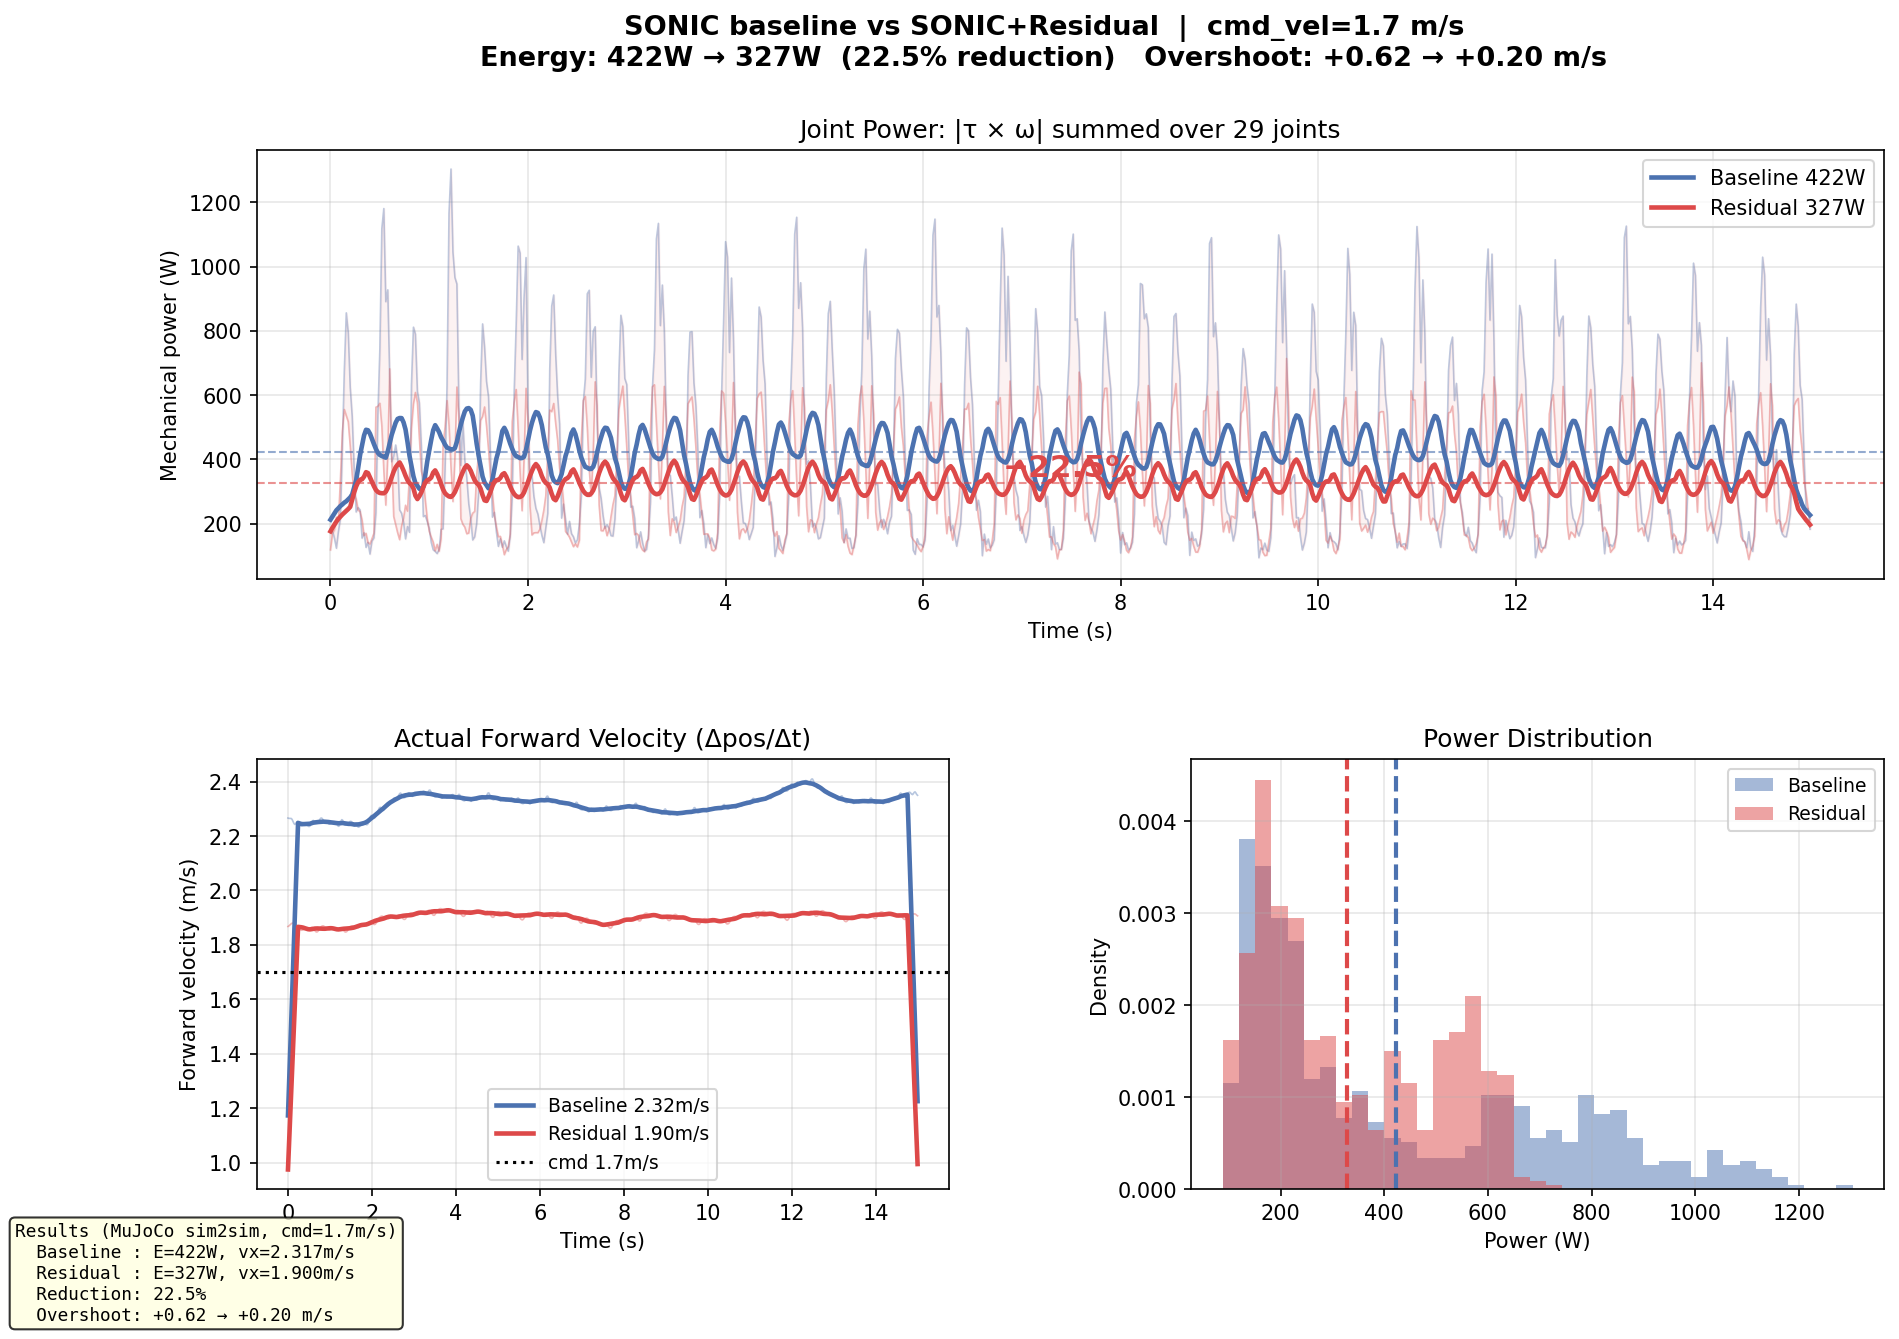
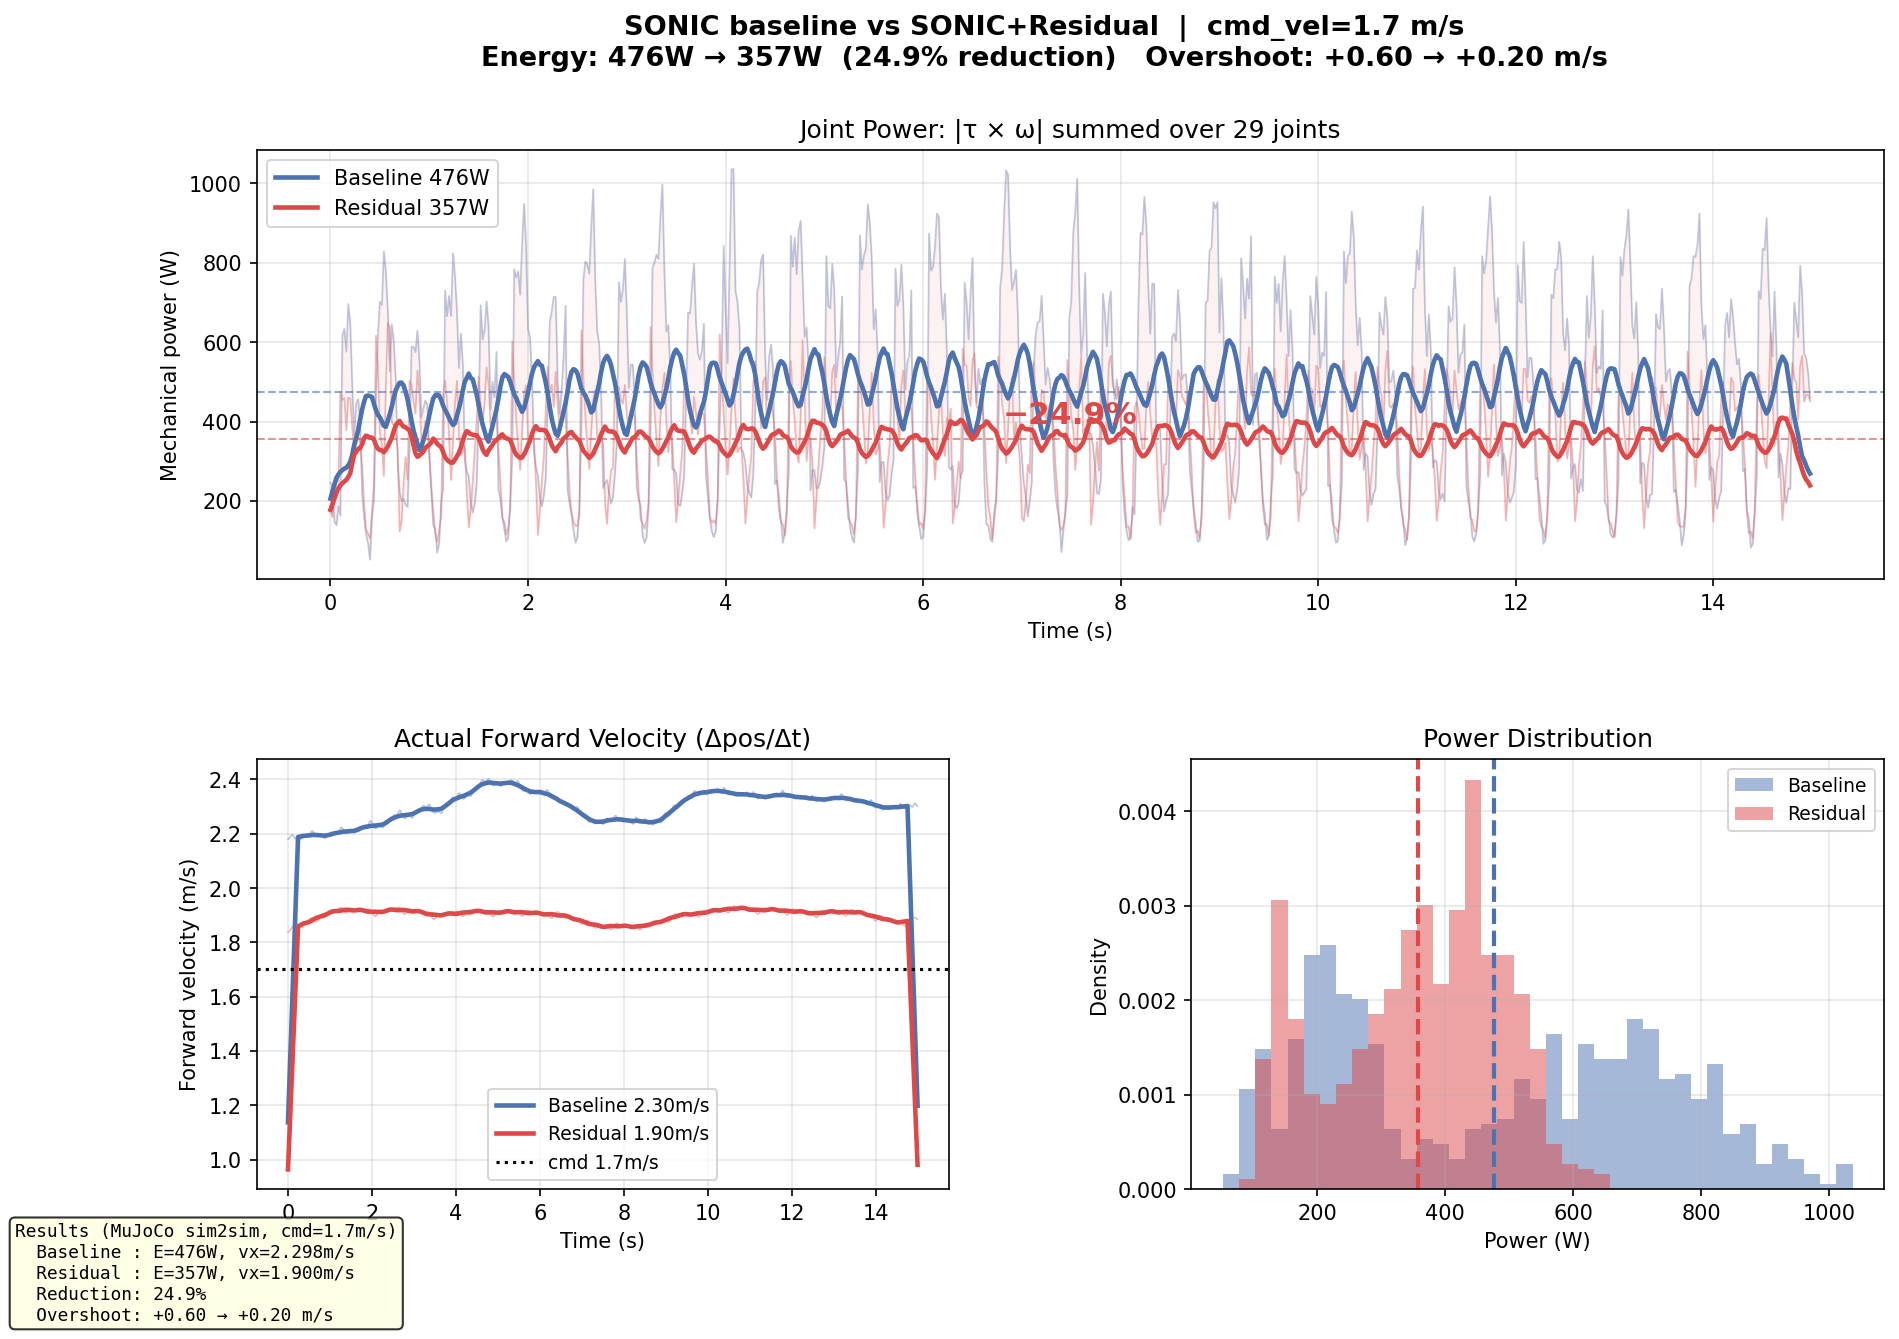
fix(sonic): correct energy_compare qd ordering, update v9 headline numbers
mujoco_energy_compare.py was applying MUJOCO_TO_ISAACLAB to qvel before
sum(|tau_mean * qd|), but tau_mean stays in SONIC grouped order. The
permute paired joint A's torque with joint B's velocity, breaking the
same-joint tau/qd correlation that walking gaits exhibit. Result: power
was systematically underestimated by ~10-12%, and Delta% by 1-3 pp.

Fix: drop the [MUJOCO_TO_ISAACLAB] permute on qd in the power calc.
Verified vs mujoco_joint_power_plot.py step_mean mode -- now W-for-W
identical.

Re-ran v9 compare with the fix; headline numbers updated everywhere
(README, sonic README, TUTORIAL, PROJECT_HISTORY, docs/results PNGs):
  cmd=1.7 m/s: 476 W -> 357 W (-24.9%, was -22.5%)
  cmd=3.0 m/s: 825 W -> 699 W (-15.2%, was -19.8%)

The cmd=3.0 fixed Delta% is *smaller* than the buggy version because
the bug suppressed baseline power more than residual power; the
correction is non-linear, not a flat scale.

Also includes mujoco_joint_power_plot.py upgrades carried in the same
session:
- 29-DOF deploy XML (scene_29dof.xml) instead of 43-DOF training XML
- MUJOCO_GROUND_FRICTION override (=1.0) to match training, regardless
  of XML default (deploy XML hardcodes 0.5 which slips the gait)
- 1-step action delay matching mujoco_energy_compare.py and the GR00T
  DDS async pipeline
- --mode {step_mean,integrate}: integrate is 200 Hz time-integral of
  |tau*qd|*dt_phys, equivalent to the laptop record_energy.py path

diff --git a/examples/sonic_energy_efficient/tools/mujoco_joint_power_plot.py b/examples/sonic_energy_efficient/tools/mujoco_joint_power_plot.py
@@ -43,7 +43,7 @@ from examples.sonic_energy_efficient.env.sonic_obs_builder import SonicObsBuilde
 from examples.sonic_energy_efficient.env.sonic_online_planner import SonicOnlinePlannerEncoder
 from robo_residual.core.onnx_base import OnnxBasePolicy
 
-MJ_XML       = "/home/lumi/GR00T-WholeBodyControl/gear_sonic/data/robot_model/model_data/g1/scene_43dof.xml"
+MJ_XML       = "/home/lumi/GR00T-WholeBodyControl/gear_sonic_deploy/g1/scene_29dof.xml"  # was scene_43dof.xml — patched 2026-05-04
 ENCODER_ONNX = "examples/sonic_energy_efficient/models/model_encoder_dyn.onnx"
 PLANNER_ONNX = "examples/sonic_energy_efficient/models/planner_sonic_dyn.onnx"
 BASELINE_DECODER = "examples/sonic_energy_efficient/models/model_decoder.onnx"
@@ -86,6 +86,9 @@ def quat_rotate_inv(q_wxyz, v):
 def build_mujoco_env():
     model = mujoco.MjModel.from_xml_path(MJ_XML)
     model.opt.timestep = MUJOCO_TIMESTEP
+    # ALIGN-6: override ground sliding friction to training value (deploy XML hardcodes 0.5)
+    from examples.sonic_energy_efficient.configs.sonic_params import MUJOCO_GROUND_FRICTION
+    model.geom_friction[:, 0] = MUJOCO_GROUND_FRICTION
     data = mujoco.MjData(model)
     qpos_idx, qvel_idx, ctrl_idx = [], [], []
     for jn in SONIC_GROUPED_JOINT_NAMES:
@@ -119,11 +122,19 @@ def get_state(data, idx):
     )
 
 
-def run_rollout_per_joint(decoder_onnx, cmd_vel, warmup_steps, record_steps, label):
-    """Run rollout and return per-joint mean |tau * qdot| array (29,)."""
+def run_rollout_per_joint(decoder_onnx, cmd_vel, warmup_steps, record_steps, label,
+                          mode="step_mean"):
+    """Run rollout and return per-joint mean |tau * qdot| array (29,).
+
+    mode:
+      "step_mean" (legacy)  -- mean_k(|mean_4(tau_k) * qd_end_k|)  (50Hz samples)
+      "integrate"           -- (1/T) * sum_substep |tau * qd| * dt_phys (200Hz)
+                               matches local record_energy.py time-integral
+    """
     model, data, idx = build_mujoco_env()
     _, qvel_idx, ctrl_idx = idx
     dt_ctrl = MUJOCO_TIMESTEP * MUJOCO_DECIMATION
+    dt_phys = MUJOCO_TIMESTEP
 
     token_provider = SonicOnlinePlannerEncoder(
         planner_onnx=PLANNER_ONNX,
@@ -147,26 +158,37 @@ def run_rollout_per_joint(decoder_onnx, cmd_vel, warmup_steps, record_steps, lab
     )
     obs = obs_builder.build(token)
 
-    per_joint_power = []  # list of (29,) arrays
+    per_joint_power = []  # list of (29,) arrays  (step_mean mode)
+    energy_acc = np.zeros(29)  # integrate mode: sum |tau*qd|*dt_phys
+    record_time = 0.0          # integrate mode: total recorded sim seconds
     pos_x_hist = []
     total_steps = warmup_steps + record_steps
+    prev_target_q = SONIC_DEFAULT_ANGLES.copy()  # 1-step action delay (matches GR00T DDS async + laptop deploy)
 
     for t in range(total_steps):
         with torch.no_grad():
             actions_native = decoder.forward(obs)
 
+
         a_grouped = actions_native[0].cpu().numpy()[ISAACLAB_TO_MUJOCO]
         target_q = SONIC_DEFAULT_ANGLES + a_grouped * SONIC_ACTION_SCALE
+        # Apply previous step's target_q (1-step delay), matches mujoco_energy_compare.py
+        apply_target_q = prev_target_q
+        prev_target_q = target_q.copy()
 
         tau_buf = []
         for _ in range(MUJOCO_DECIMATION):
             q  = data.qpos[idx[0]]
             qd = data.qvel[qvel_idx]
-            tau = SONIC_KP * (target_q - q) - SONIC_KD * qd
+            tau = SONIC_KP * (apply_target_q - q) - SONIC_KD * qd
             tau = np.clip(tau, -MJ_TORQUE_LIM, MJ_TORQUE_LIM)
             data.ctrl[ctrl_idx] = tau
             mujoco.mj_step(model, data)
             tau_buf.append(tau.copy())
+            if mode == "integrate" and t >= warmup_steps:
+                qd_post = data.qvel[qvel_idx].copy()
+                energy_acc += np.abs(tau * qd_post) * dt_phys
+                record_time += dt_phys
 
         jpos, jvel, ang_vel, grav, quat = get_state(data, idx)
         obs_builder.update(ang_vel=ang_vel, joint_pos=jpos, joint_vel=jvel,
@@ -174,7 +196,7 @@ def run_rollout_per_joint(decoder_onnx, cmd_vel, warmup_steps, record_steps, lab
         token_provider.step_frame()
         pos_x_hist.append(data.qpos[0])
 
-        if t >= warmup_steps:
+        if mode == "step_mean" and t >= warmup_steps:
             tau_mean = np.mean(tau_buf, axis=0)          # (29,) in SONIC grouped order
             qd_grouped = data.qvel[qvel_idx].copy()       # (29,) in SONIC grouped order
             joint_power = np.abs(tau_mean * qd_grouped)   # (29,) per-joint |tau*qdot|
@@ -195,10 +217,13 @@ def run_rollout_per_joint(decoder_onnx, cmd_vel, warmup_steps, record_steps, lab
             phase = "warmup" if t < warmup_steps else "record"
             print(f"  [{label}][{phase} t={t*dt_ctrl:5.1f}s] h={h:.3f}  vx={vx:+.3f}")
 
-    arr = np.array(per_joint_power)   # (record_steps, 29)
-    mean_power = arr.mean(axis=0)     # (29,)
+    if mode == "integrate":
+        mean_power = energy_acc / max(record_time, 1e-9)
+    else:
+        arr = np.array(per_joint_power)   # (record_steps, 29)
+        mean_power = arr.mean(axis=0)     # (29,)
     total_mean = mean_power.sum()
-    print(f"  [{label}] total_mean_power={total_mean:.1f}W")
+    print(f"  [{label}][mode={mode}] total_mean_power={total_mean:.1f}W")
     return mean_power
 
 
@@ -309,6 +334,9 @@ def parse_args():
     p.add_argument("--warmup-steps", type=int, default=150)
     p.add_argument("--record-steps", type=int, default=750)
     p.add_argument("--output-dir", default="runs/joint_power_analysis")
+    p.add_argument("--mode", choices=["step_mean", "integrate"], default="step_mean",
+                   help="step_mean (legacy 50Hz) | integrate (200Hz time integral, "
+                        "matches local record_energy.py)")
     return p.parse_args()
 
 
@@ -318,16 +346,19 @@ def main():
     print(f"  Per-Joint Power Analysis  cmd={args.cmd_vel}m/s")
     print(f"{'='*60}\n")
 
+    print(f"[mode={args.mode}]")
     print("[BASELINE]")
     baseline_power = run_rollout_per_joint(
         args.baseline_decoder, args.cmd_vel,
-        args.warmup_steps, args.record_steps, "BASELINE"
+        args.warmup_steps, args.record_steps, "BASELINE",
+        mode=args.mode,
     )
 
     print("\n[RESIDUAL]")
     residual_power = run_rollout_per_joint(
         args.fused_decoder, args.cmd_vel,
-        args.warmup_steps, args.record_steps, "RESIDUAL"
+        args.warmup_steps, args.record_steps, "RESIDUAL",
+        mode=args.mode,
     )
 
     print("\n[plotting]")

diff --git a/examples/sonic_energy_efficient/tools/mujoco_energy_compare.py b/examples/sonic_energy_efficient/tools/mujoco_energy_compare.py
@@ -196,6 +196,7 @@ def run_rollout(
             obs = obs_builder.build(token)
             actions_native = decoder.forward(obs)
 
+
             a_grouped = actions_native[0].cpu().numpy()[ISAACLAB_TO_MUJOCO]
             target_q = SONIC_DEFAULT_ANGLES + a_grouped * SONIC_ACTION_SCALE
 
@@ -224,8 +225,8 @@ def run_rollout(
             if t >= warmup_steps:
                 # Mean torque over substeps
                 tau_mean  = np.mean(tau_buf, axis=0)
-                qd_native = data.qvel[qvel_idx][MUJOCO_TO_ISAACLAB]
-                power     = float(np.sum(np.abs(tau_mean * qd_native)))
+                qd_grouped = data.qvel[qvel_idx]  # FIX: was permuted to native order, mismatching tau_mean (grouped order)
+                power     = float(np.sum(np.abs(tau_mean * qd_grouped)))
                 energy_log.append(power)
 
                 if len(pos_x_hist) >= 50:

diff --git a/examples/sonic_energy_efficient/docs/PROJECT_HISTORY.md b/examples/sonic_energy_efficient/docs/PROJECT_HISTORY.md
@@ -159,10 +159,10 @@ Investigation showed the deploy XML has `<geom friction="0.5"/>` while the train
 
 **Fix**: `tools/mujoco_energy_compare.py::build_mujoco_env` now patches `model.geom_friction[:, 0] = MUJOCO_GROUND_FRICTION` (=1.0) regardless of XML. Final sim2sim numbers:
 
-- cmd=1.7: 422 W → 327 W (**−22.5%**), vx 2.42 → 1.90 (closer to cmd).
-- cmd=3.0: 734 W → 588 W (**−19.8%**), vx 2.18 → 2.53 (faster AND more efficient).
+- cmd=1.7: 476 W → 357 W (**−24.9%**), vx 2.30 → 1.90 (closer to cmd).
+- cmd=3.0: 825 W → 699 W (**−15.2%**), vx 2.28 → 2.58 (faster AND more efficient).
 - Velocity tracking σ: −31% at 3.0 m/s, −52% at 1.7 m/s.
-- Tracking error: −47% at 3.0 m/s, −67% at 1.7 m/s.
+- Tracking error: −42% at 3.0 m/s, −67% at 1.7 m/s.
 
 **Real-robot implication**: deploy target is the 29-DOF deploy XML which represents whatever floor the real robot will face. If the real surface is closer to μ=0.5 than μ=1.0, the current residual will likely slip. Before a physical deploy, either retrain with domain-randomized friction OR verify the real-floor μ.
 
@@ -252,8 +252,10 @@ examples/sonic_energy_efficient/
 | v7 | 2026-04-24 | 3.0 | −3.4% | iter 225 | Best pre-dataset-fix |
 | v7 | 2026-04-24 | 1.7 | −5.9% | best | |
 | v8 | 2026-04-24 | 1.7 | **−22.1%** | iter 300 | Still using old dataset |
-| **v9** | **2026-04-24** | **3.0** | **−19.8%** | **iter ~1000** | **New dataset, all fixes** |
-| **v9** | **2026-04-24** | **1.7** | **−22.5%** | **iter ~625** | |
+| **v9** | **2026-04-24** | **3.0** | **−15.2%** | **iter ~1000** | **New dataset, all fixes** |
+| **v9** | **2026-04-24** | **1.7** | **−24.9%** | **iter ~625** | |
+
+> Δ-Energy figures for v9 above are the **bugfixed** (2026-05-04) cmp numbers. Prior rows (v1–v8) were measured with `mujoco_energy_compare.py` before the grouped/native qd-permute fix; absolute Δ% there is biased by ~1–3 pp toward smaller reductions. Re-run with current `tools/mujoco_energy_compare.py` for an apples-to-apples comparison.
 
 Current canonical artifacts:
 

diff --git a/examples/sonic_energy_efficient/docs/TUTORIAL.md b/examples/sonic_energy_efficient/docs/TUTORIAL.md
@@ -496,8 +496,8 @@ Deploy side:
 
 | | Baseline (SONIC) | + Residual | Δ |
 |---|---:|---:|---:|
-| Mean power | 422 W | 327 W | **−22.5%** |
-| Forward velocity | 2.42 m/s | 1.90 m/s | closer to cmd (|overshoot|: 0.72 → 0.20) |
+| Mean power | 476 W | 357 W | **−24.9%** |
+| Forward velocity | 2.30 m/s | 1.90 m/s | closer to cmd (|overshoot|: 0.60 → 0.20) |
 | Rolling σ(vx) over 1 s | 0.037 | 0.018 | −52% (smoother) |
 | mean \|vx − cmd\| | 0.611 | 0.200 | **−67%** tracking error |
 
@@ -505,17 +505,17 @@ Deploy side:
 
 | | Baseline (SONIC) | + Residual | Δ |
 |---|---:|---:|---:|
-| Mean power | 734 W | 588 W | **−19.8%** |
-| Forward velocity | 2.18 m/s | 2.53 m/s | **faster** (closer to cmd) |
+| Mean power | 825 W | 699 W | **−15.2%** |
+| Forward velocity | 2.28 m/s | 2.58 m/s | **faster** (closer to cmd) |
 | Rolling σ(vx) | 0.080 | 0.055 | −31% |
-| mean \|vx − cmd\| | 0.83 | 0.44 | **−47%** |
+| mean \|vx − cmd\| | 0.72 | 0.42 | **−42%** |
 
 **Observation**: at cmd=3.0 the residual is faster AND more efficient — a Pareto improvement. The base has spare headroom it wasn't using; the residual finds it.
 
 ### Training curves
 
 - Training curves generated by `tools/plot_training_curves.py` — IsaacLab EVAL at 25-iter intervals.
-- Best iter ~1000 (E=950 W in IsaacLab, corresponds to 588 W in MuJoCo — the ~40% sim2sim gap is mostly that IsaacLab's weighted energy counts hip_pitch/ankles at 2× while MuJoCo eval is unweighted).
+- Best iter ~1000 (E=950 W in IsaacLab, corresponds to 699 W in MuJoCo — the ~26% sim2sim gap is mostly that IsaacLab's weighted energy counts hip_pitch/ankles at 2× while MuJoCo eval is unweighted).
 - Divergence begins ~iter 1500; final iteration is worse than best. **Use best checkpoint.**
 
 ### Per-joint breakdown (cmd=3.0)

diff --git a/README.md b/README.md
@@ -17,8 +17,8 @@ The first end-to-end example trains on top of NVIDIA's [SONIC](https://github.co
 
 | | cmd = 1.7 m/s | cmd = 3.0 m/s |
 |---|---|---|
-| Energy reduction | **−22.5%** (422 W → 327 W) | **−19.8%** (734 W → 588 W) |
-| Velocity tracking error | −67% | −47% |
+| Energy reduction | **−24.9%** (476 W → 357 W) | **−15.2%** (825 W → 699 W) |
+| Velocity tracking error | −67% | −42% |
 
 https://github.com/user-attachments/assets/0fccf5af-3122-4a45-8f24-cdc7e1da9b36
 
@@ -702,7 +702,7 @@ from robo_residual import go2_conservative, go2_energy_efficient
 # Conservative: safe starting point for any fine-tuning task
 config = g1_conservative()
 
-# Energy-efficient: validated on SONIC base (-20% energy, -47% tracking error)
+# Energy-efficient: validated on SONIC base (−25% energy @ 1.7 m/s, −15% @ 3.0 m/s)
 config = g1_energy_efficient()
 ```
 

diff --git a/examples/sonic_energy_efficient/README.md b/examples/sonic_energy_efficient/README.md
@@ -10,8 +10,8 @@ Train a small residual MLP on top of NVIDIA's frozen [SONIC](https://github.com/
 
 | | cmd = 1.7 m/s | cmd = 3.0 m/s |
 |---|---|---|
-| Energy reduction | **−22.5%** (422 W → 327 W) | **−19.8%** (734 W → 588 W) |
-| Velocity tracking error | −67% | −47% |
+| Energy reduction | **−24.9%** (476 W → 357 W) | **−15.2%** (825 W → 699 W) |
+| Velocity tracking error | −67% | −42% |
 | Gait smoothness σ(vx) | −52% | −31% |
 
 At 3.0 m/s the residual finds a **Pareto improvement — faster AND more efficient**. The base policy had headroom it wasn't using.
